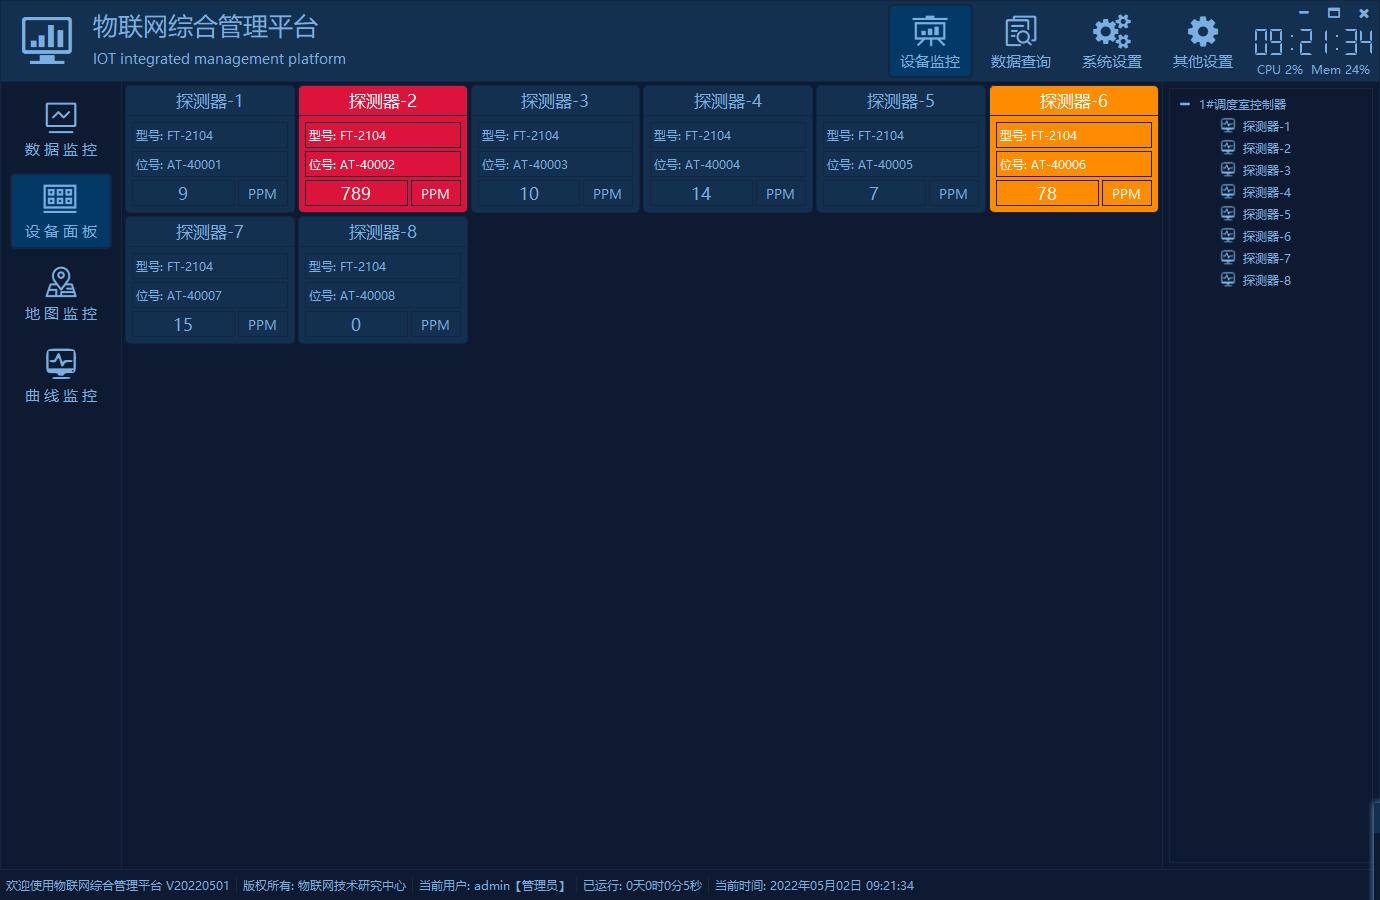
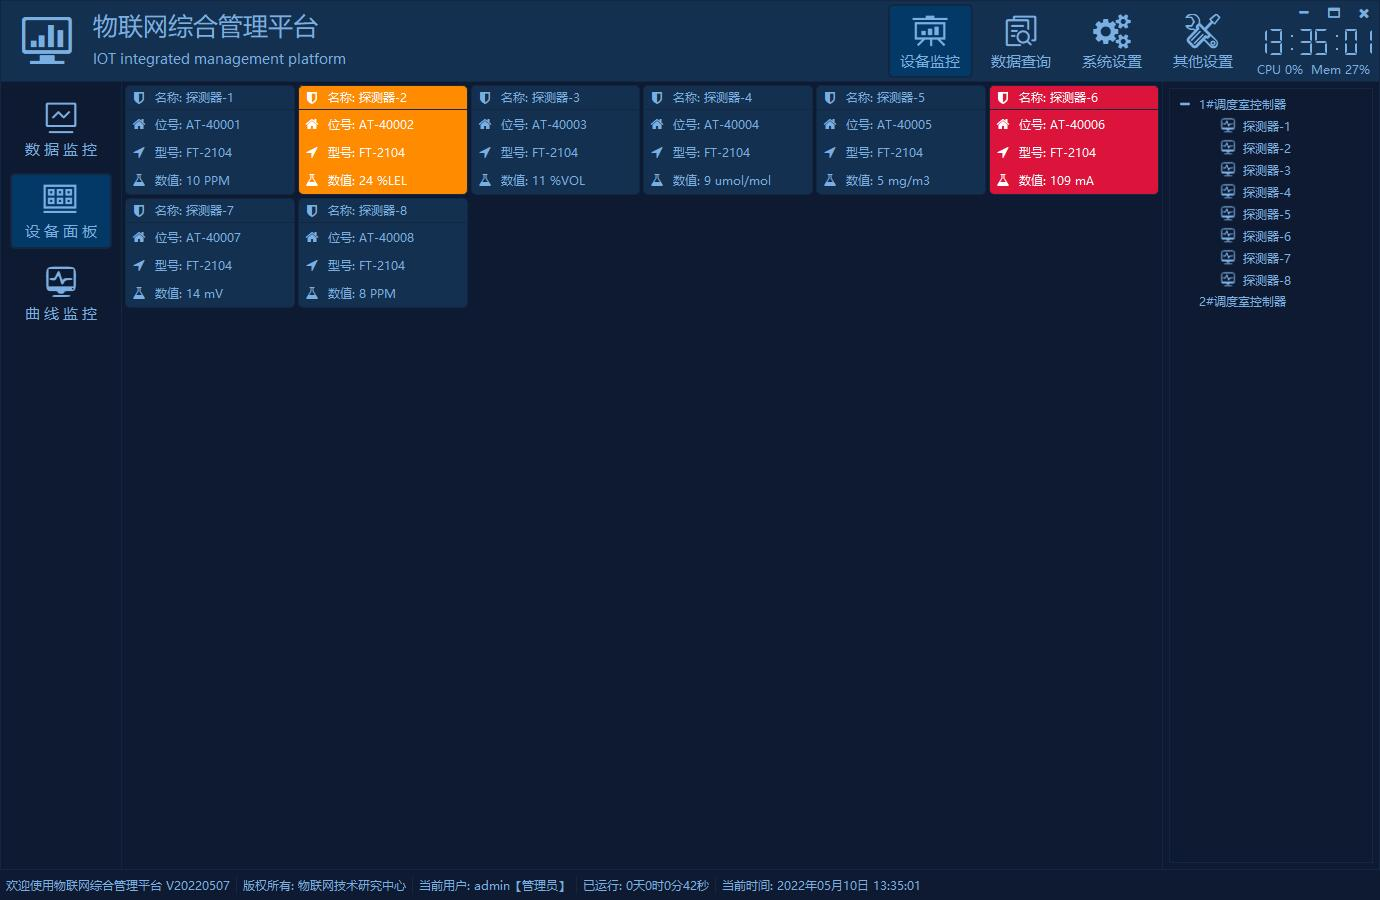
更新说明书

diff --git a/snap_iotsystem/readme.md b/snap_iotsystem/readme.md
@@ -513,22 +513,22 @@ void DbHelper::getDbDefaultInfo(const QString &dbType, QString &hostPort,
 - 用来在系统设置中对应下拉框中的信息。
 - 这样就非常灵活，用户后期增加了新的产品直接在这里添加好就行，其他地方都是自动下拉选择。
 
-#### 2.6.1 联动添加
+#### 2.6.1 类型添加
 单击添加按钮，会自动规则生成默认的信息，直接表格中修改即可，修改好以后单击保存按钮保存所有的信息。
 
-#### 2.6.2 联动删除
+#### 2.6.2 类型删除
 如果要删除某个类型信息，需要先选中该行，然后单击删除按钮，删除后会自动保存。
 
-#### 2.6.3 联动清空
+#### 2.6.3 类型清空
 单击清空按钮会对整个表进行清空操作，清空后数据不能恢复，慎用。
 
-#### 2.6.4 联动信息导入
+#### 2.6.4 类型信息导入
 单击导入按钮，可以选择之前导出的csv格式的文件导入数据。
 
-#### 2.6.5 联动信息导出
+#### 2.6.5 类型信息导出
 单击导出按钮，将表格数据导出到csv格式的文件，用户可以打开文件编辑，然后再次导入，这样可以作为简易的备份机制使用，也可将繁琐的基础数据录入交给小姑娘去做。　　
 
-#### 2.6.6 联动信息打印
+#### 2.6.6 类型信息打印
  ![](snap/2-6-6.jpg)
 
 单击打印按钮可以将表格中的内容打印出来，打印前会弹出打印预览界面，可以自行做边距的调整等，可以查看等待打印的内容，翻页切换。
@@ -616,9 +616,13 @@ void DbHelper::getDbDefaultInfo(const QString &dbType, QString &hostPort,
 表格依次显示序号、位号、控制器名称、控制器型号、探测器名称、探测器型号、气体种类、浓度值、气体符号。
 
 ### 4.2 设备面板
+设备作为一个个独立的设备面板控件，有多少个探测器就会生成多少个面板，放在容器中，可以在系统设置中选择设备列数，按照该设备列数来排列，超过会自动产生滚动条拖动查看。报警后整个设备面板会突出颜色显示比如高报是红色、低报是黄色等。双击探测器面板，会跳转到该探测器的详细信息界面，在该界面上后期可以按照实际用户需求定制回控操作。
+
+#### 4.2.1 普通样式
  ![](snap/4-2-1.jpg)
 
-设备作为一个个独立的设备面板控件，有多少个探测器就会生成多少个面板，放在容器中，可以在系统设置中选择设备列数，按照该设备列数来排列，超过会自动产生滚动条拖动查看。报警后整个设备面板会突出颜色显示比如高报是红色、低报是黄色等。双击探测器面板，会跳转到该探测器的详细信息界面，在该界面上后期可以按照实际用户需求定制回控操作。
+#### 4.2.2 仪表样式
+![](snap/4-2-2.jpg)
 
 ### 4.3 地图监控
  ![](snap/4-3-1.jpg)
